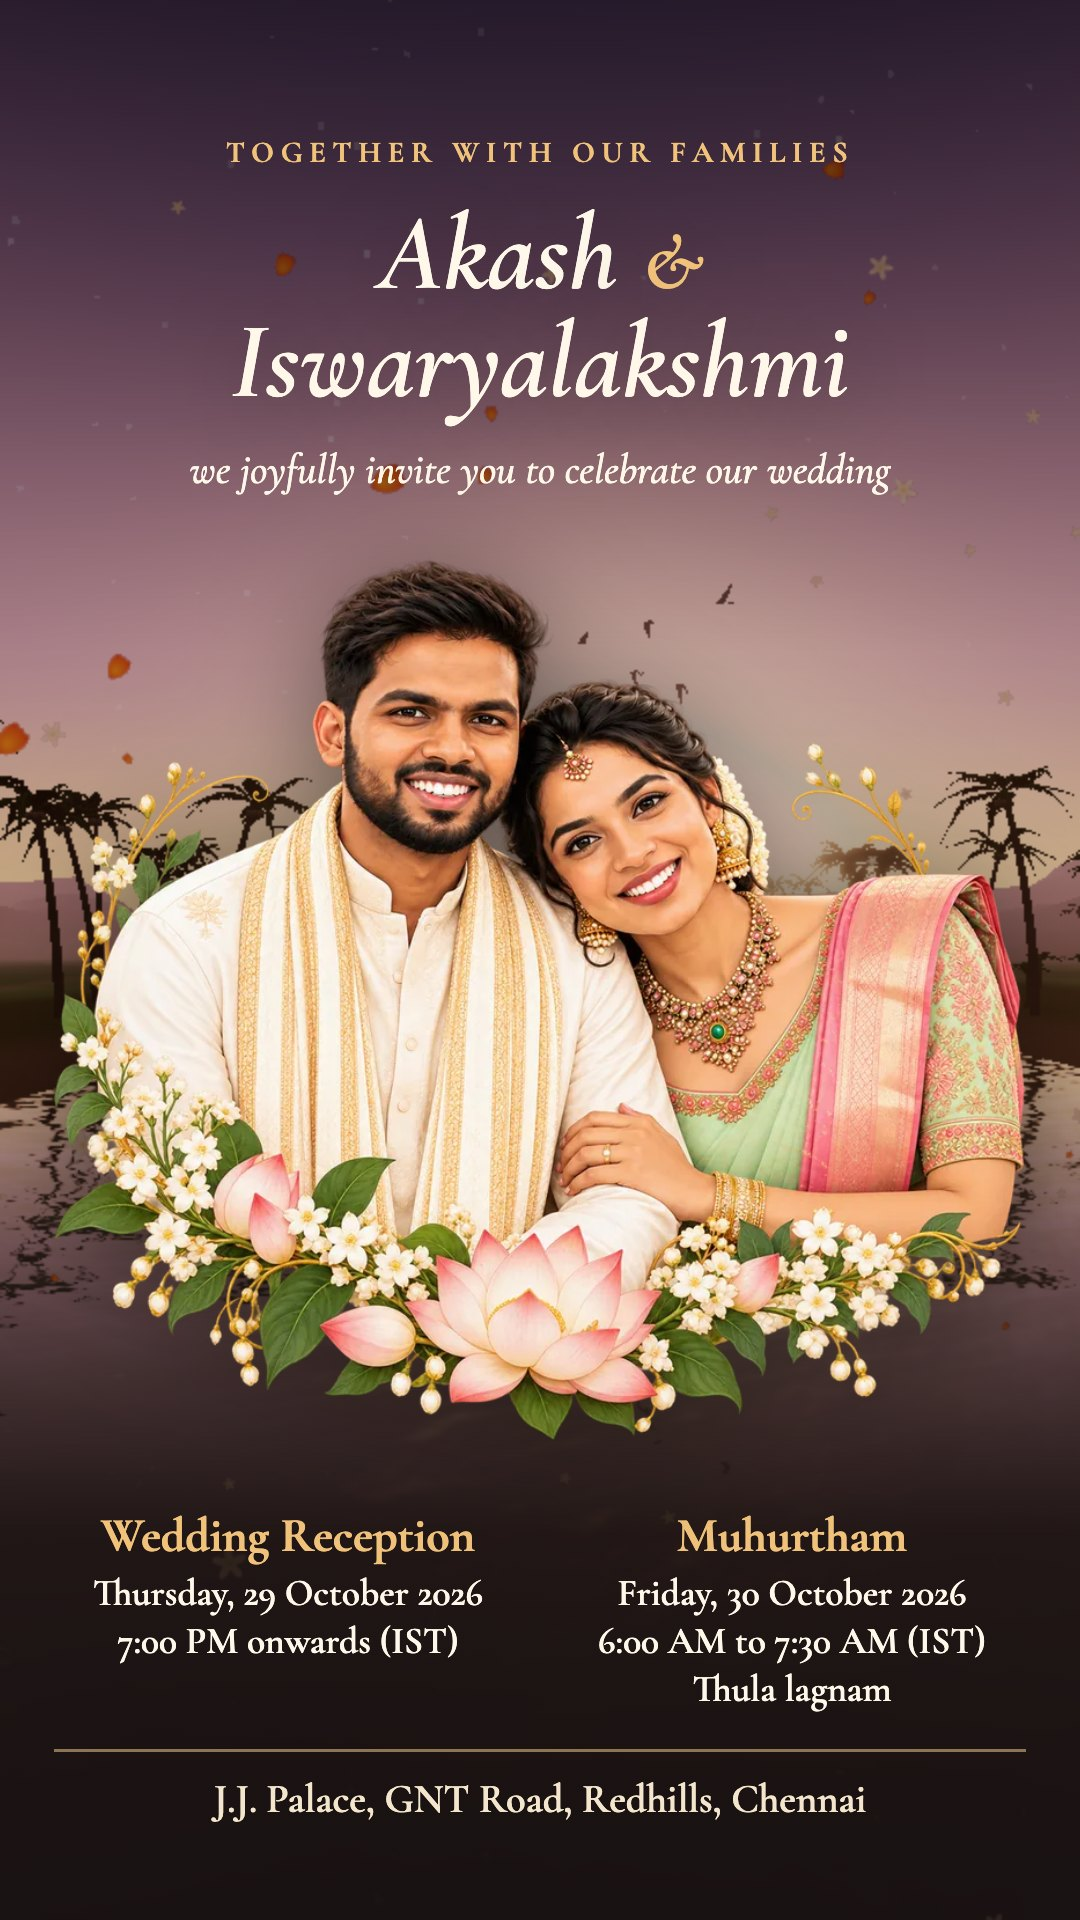
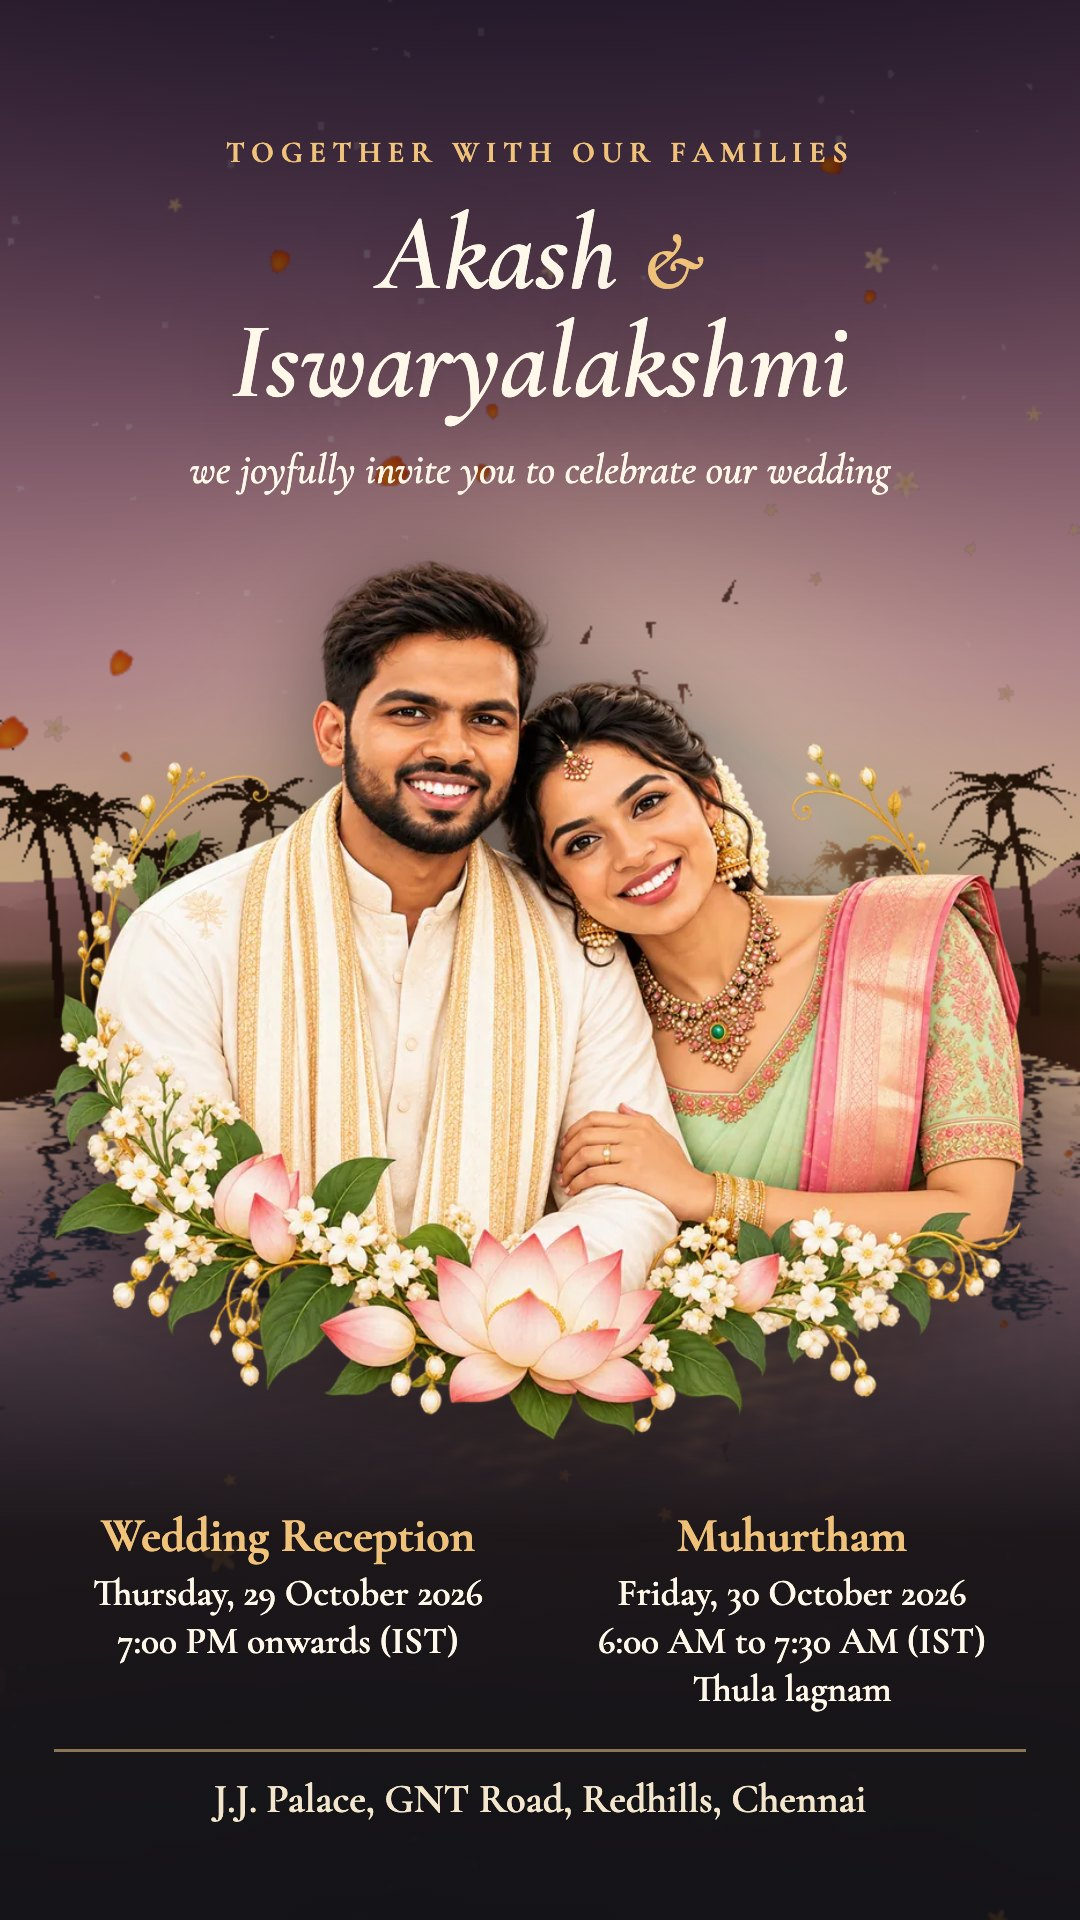
Refine reception pavilion, blue flowing river and moored boats
- Reception rotunda in ivory marble with gilded capitals, band, dome ribs
  and lantern; finer string lights and softer lamp glow
- River in natural blues with ripples flowing downstream
- Two small wooden boats rocking in the stream
- Moon, birds, safer camera path and fixed lamp flame blending
- Couple portrait on the first screen and in the story image

diff --git a/src/scene/ghat.js b/src/scene/ghat.js
@@ -45,18 +45,18 @@ const flameFragment = /* glsl */ `
     if (vKind < 0.5) {
       // Wick flame: teardrop texture, hot enough to bloom.
       vec4 t = texture2D(uFlame, vec2(uv.x, uv.y));
-      col = t.rgb * 5.0;
+      col = t.rgb * 3.2;
       a = t.a;
     } else if (vKind > 1.5) {
       // String-light bulb: a small warm-white core with a tight glow.
       float d = length(uv - 0.5) * 2.0;
-      a = exp(-d * d * 9.0);
-      col = vec3(1.0, 0.82, 0.52) * (0.8 + 3.2 * smoothstep(0.35, 0.0, d));
+      a = exp(-d * d * 10.0);
+      col = vec3(1.0, 0.86, 0.62) * (0.6 + 1.8 * smoothstep(0.35, 0.0, d));
     } else {
       // Soft halo around each lamp.
       float d = length(uv - 0.5) * 2.0;
-      a = exp(-d * d * 4.0) * 0.55;
-      col = vec3(1.0, 0.55, 0.18) * 1.6;
+      a = exp(-d * d * 6.0) * 0.3;
+      col = vec3(1.0, 0.66, 0.32) * 1.2;
     }
     // Additive blending scales colour by alpha (SRC_ALPHA, ONE).
     gl_FragColor = vec4(col, a * vAlpha);
@@ -111,14 +111,17 @@ export function createGhat({ scene, uniforms, tier }) {
   }
   group.add(new THREE.Mesh(mergeGeometries(wallGeos), stoneDark));
 
-  // Reception rotunda: a western classical pavilion in white marble. Stepped
-  // round plinth, eight fluted columns with bases and capitals, a moulded
-  // entablature ring and a shallow dome with a lantern.
+  // Reception rotunda: a western classical pavilion in ivory marble with
+  // gilded details. Stepped round plinth, eight fluted columns with gold
+  // capitals, a moulded entablature with a gold band, and a ribbed dome
+  // crowned by a gold lantern.
   const mx = -13.5;
   const colR = 3.9;
   const cols = 8;
-  const marble = new THREE.MeshLambertMaterial({ color: 0xf2ece2 });
+  const marble = new THREE.MeshLambertMaterial({ color: 0xe2d6bf });
+  const gold = new THREE.MeshPhongMaterial({ color: 0xa9803c, specular: 0xffe2a0, shininess: 70, emissive: 0x140c02 });
   const rGeos = [];
+  const gGeos = [];
   const lathe = (pts, seg = 40) => new THREE.LatheGeometry(pts.map(([r, y]) => new THREE.Vector2(r, y)), seg);
   // Plinth: three circular steps.
   rGeos.push(lathe([[0, 0], [5.4, 0], [5.4, 0.3], [4.95, 0.3], [4.95, 0.6], [4.5, 0.6], [4.5, 0.9], [0, 0.9]]));
@@ -146,20 +149,41 @@ export function createGhat({ scene, uniforms, tier }) {
     const abacus = new THREE.BoxGeometry(0.95, 0.16, 0.95);
     abacus.rotateY(-a);
     abacus.translate(cx, base + 0.32 + shaftH + 0.34, cz);
-    rGeos.push(foot, shaft, capital, abacus);
+    rGeos.push(foot, shaft);
+    gGeos.push(capital, abacus);
   }
   const top = base + 0.32 + shaftH + 0.42;
   // Entablature: architrave, frieze and a projecting cornice.
-  rGeos.push(lathe([[3.3, 0], [4.45, 0], [4.45, 0.34], [4.5, 0.4], [4.5, 0.72], [4.75, 0.82], [4.75, 1.0], [3.3, 1.0]]));
-  rGeos[rGeos.length - 1].translate(0, top, 0);
+  const entablature = lathe([[3.3, 0], [4.45, 0], [4.45, 0.34], [4.5, 0.4], [4.5, 0.72], [4.75, 0.82], [4.75, 1.0], [3.3, 1.0]]);
+  entablature.translate(0, top, 0);
+  rGeos.push(entablature);
+  // Thin gilded band between architrave and frieze.
+  const band = lathe([[4.46, 0], [4.53, 0], [4.53, 0.08], [4.46, 0.08]], 48);
+  band.translate(0, top + 0.34, 0);
+  gGeos.push(band);
   // Dome and lantern.
   const dome = new THREE.SphereGeometry(4.3, 32, 12, 0, Math.PI * 2, 0, Math.PI / 2);
   dome.scale(1, 0.62, 1);
   dome.translate(0, top + 1.0, 0);
   const lantern = lathe([[0, 0], [0.7, 0], [0.7, 0.9], [0.9, 1.0], [0.25, 1.35], [0.12, 1.9], [0, 2.0]], 16);
   lantern.translate(0, top + 1.0 + 4.3 * 0.62 - 0.1, 0);
-  rGeos.push(dome, lantern);
-  const rotunda = new THREE.Mesh(mergeGeometries(rGeos.map((g) => (g.index ? g.toNonIndexed() : g))), marble);
+  rGeos.push(dome);
+  gGeos.push(lantern);
+  // Gilded ribs running up the dome.
+  const domeBase = top + 1.0;
+  for (let i = 0; i < 12; i++) {
+    const a = (i / 12) * Math.PI * 2;
+    const pts = [];
+    for (let k = 0; k <= 10; k++) {
+      const phi = (k / 10) * (Math.PI / 2) * 0.93;
+      const r = 4.32 * Math.cos(phi);
+      pts.push(new THREE.Vector3(Math.cos(a) * r, domeBase + 4.32 * 0.62 * Math.sin(phi), Math.sin(a) * r));
+    }
+    gGeos.push(new THREE.TubeGeometry(new THREE.CatmullRomCurve3(pts), 12, 0.06, 5, false));
+  }
+  const merge = (list) => mergeGeometries(list.map((g) => (g.index ? g.toNonIndexed() : g)));
+  const rotunda = new THREE.Group();
+  rotunda.add(new THREE.Mesh(merge(rGeos), marble), new THREE.Mesh(merge(gGeos), gold));
   rotunda.position.set(mx, TOP, 0);
   group.add(rotunda);
 
@@ -169,10 +193,10 @@ export function createGhat({ scene, uniforms, tier }) {
   for (let i = 0; i < cols; i++) {
     const a0 = (i / cols) * Math.PI * 2 + Math.PI / cols;
     const a1 = ((i + 1) / cols) * Math.PI * 2 + Math.PI / cols;
-    for (let k = 1; k < 7; k++) {
-      const t = k / 7;
+    for (let k = 1; k < 9; k++) {
+      const t = k / 9;
       const a = a0 + (a1 - a0) * t;
-      bulbs.push([mx + Math.cos(a) * (colR + 0.15), swagY - 0.75 * 4 * t * (1 - t), Math.sin(a) * (colR + 0.15)]);
+      bulbs.push([mx + Math.cos(a) * (colR + 0.15), swagY - 0.55 * 4 * t * (1 - t), Math.sin(a) * (colR + 0.15)]);
     }
   }
 
@@ -226,14 +250,14 @@ export function createGhat({ scene, uniforms, tier }) {
       kind.push(0);
     }
     pos.push(x, y + 0.1, z);
-    size.push(5.5);
+    size.push(3.2);
     lampIdx.push(i);
     kind.push(1);
   });
   // Bulbs come on around the ring while the lamps are being lit.
   bulbs.forEach(([x, y, z], i) => {
     pos.push(x, y, z);
-    size.push(0.8);
+    size.push(0.32);
     lampIdx.push(1 + (i / bulbs.length) * (lampSpots.length - 2));
     kind.push(2);
   });
@@ -263,12 +287,12 @@ export function createGhat({ scene, uniforms, tier }) {
   group.add(flames);
 
   // Two warm lights carry the lamp glow onto the stone and the water.
-  const glowA = new THREE.PointLight(0xffa447, 0, 46, 1.3);
-  const glowB = new THREE.PointLight(0xffa447, 0, 46, 1.3);
+  const glowA = new THREE.PointLight(0xffc488, 0, 40, 1.5);
+  const glowB = new THREE.PointLight(0xffc488, 0, 40, 1.5);
   glowA.position.set(4, TOP + 3.5, 12);
   glowB.position.set(-5, TOP + 3.5, -10);
   // Warm light inside the rotunda from the string lights.
-  const glowC = new THREE.PointLight(0xffc27a, 0, 16, 1.2);
+  const glowC = new THREE.PointLight(0xffd6a0, 0, 14, 1.4);
   glowC.position.set(mx, TOP + 4.2, 0);
   group.add(glowA, glowB, glowC);
 
@@ -283,9 +307,9 @@ export function createGhat({ scene, uniforms, tier }) {
       const level = light.lamps * (n + 0.6);
       flameUniforms.uLevel.value = level;
       const glow = clamp(level / n, 0, 1);
-      glowA.intensity = glow * 60;
-      glowC.intensity = glow * 12;
-      glowB.intensity = glow * 45;
+      glowA.intensity = glow * 26;
+      glowC.intensity = glow * 10;
+      glowB.intensity = glow * 20;
       if (renderer) flameUniforms.uViewH.value = renderer.getDrawingBufferSize(size2).y;
     },
   };

diff --git a/src/scene/boat.js b/src/scene/boat.js
@@ -1,0 +1,125 @@
+import * as THREE from 'three';
+import { mergeGeometries } from 'three/addons/utils/BufferGeometryUtils.js';
+import { sampleCamera } from './timeline.js';
+import { riverX } from './util.js';
+
+// Small wooden country boats moored in the stream, rocking on the current.
+// The hull is lofted from U-shaped cross-sections with upswept ends; the
+// water surface hides everything below the waterline.
+
+const LENGTH = 6.2;
+
+function hullGeometry() {
+  const segL = 24;
+  const segR = 10;
+  const pos = [];
+  const col = [];
+  const idx = [];
+  const plankA = new THREE.Color('#6b4428');
+  const plankB = new THREE.Color('#57361f');
+  const rim = new THREE.Color('#8a5a33');
+  for (let i = 0; i <= segL; i++) {
+    const u = (i / segL) * 2 - 1; // -1 bow .. 1 stern
+    const taper = Math.max(0, 1 - u * u);
+    const halfW = 0.82 * Math.pow(taper, 0.55) + 0.02;
+    const depth = 0.55 * Math.pow(taper, 0.35) + 0.05;
+    const top = 0.32 + 0.42 * Math.pow(Math.abs(u), 4);
+    for (let j = 0; j <= segR; j++) {
+      const th = (j / segR) * Math.PI;
+      const x = -Math.cos(th) * halfW;
+      const y = top - Math.sin(th) * (depth + (top - 0.32));
+      pos.push(x, y, u * (LENGTH / 2));
+      // Horizontal planks, with a lighter rubbing strip along the gunwale.
+      const c = j === 0 || j === segR ? rim : Math.floor(j / 2) % 2 ? plankA : plankB;
+      col.push(c.r, c.g, c.b);
+    }
+  }
+  for (let i = 0; i < segL; i++) {
+    for (let j = 0; j < segR; j++) {
+      const a = i * (segR + 1) + j;
+      const b = a + segR + 1;
+      idx.push(a, b, a + 1, b, b + 1, a + 1);
+    }
+  }
+  const g = new THREE.BufferGeometry();
+  g.setAttribute('position', new THREE.Float32BufferAttribute(pos, 3));
+  g.setAttribute('color', new THREE.Float32BufferAttribute(col, 3));
+  g.setIndex(idx);
+  g.computeVertexNormals();
+  return g;
+}
+
+function paint(geo, hex) {
+  const c = new THREE.Color(hex);
+  const n = geo.attributes.position.count;
+  const col = new Float32Array(n * 3);
+  for (let i = 0; i < n; i++) col.set([c.r, c.g, c.b], i * 3);
+  geo.setAttribute('color', new THREE.BufferAttribute(col, 3));
+  const g = geo.index ? geo.toNonIndexed() : geo;
+  g.deleteAttribute('uv');
+  return g;
+}
+
+export function createBoat({ scene }) {
+  const parts = [hullGeometry().toNonIndexed()];
+  // Two thwarts (seats) across the hull.
+  for (const z of [-1.1, 0.9]) {
+    const seat = new THREE.BoxGeometry(1.5, 0.07, 0.34);
+    seat.translate(0, 0.2, z);
+    parts.push(paint(seat, '#7a5232'));
+  }
+  // An oar resting across the boat.
+  const oar = new THREE.CylinderGeometry(0.035, 0.035, 3.4, 6);
+  oar.rotateZ(Math.PI / 2);
+  oar.rotateY(0.35);
+  oar.translate(0.1, 0.36, 0.2);
+  const blade = new THREE.BoxGeometry(0.5, 0.03, 0.2);
+  blade.rotateY(0.35);
+  blade.translate(1.7, 0.36, -0.42);
+  parts.push(paint(oar, '#8a6a44'), paint(blade, '#8a6a44'));
+  // A folded mat and a small brass pot for a touch of life.
+  const mat = new THREE.BoxGeometry(0.9, 0.08, 0.6);
+  mat.translate(0, 0.05, -2.0);
+  const pot = new THREE.SphereGeometry(0.16, 10, 8);
+  pot.translate(0.25, 0.12, 1.9);
+  parts.push(paint(mat, '#b0463a'), paint(pot, '#c09040'));
+  for (const p of parts) if (p.attributes.uv) p.deleteAttribute('uv');
+
+  const geometry = mergeGeometries(parts);
+  const material = new THREE.MeshLambertMaterial({ vertexColors: true, side: THREE.DoubleSide });
+
+  // Moored boats placed in the line of sight of two chapters: one off to the
+  // right in the golden-hour view, one on the sunrise glitter path at dawn.
+  // `distance` is metres downstream of the chapter's camera; `offset` is
+  // metres from the river's centre line, so the boat always sits on water.
+  const SPOTS = [
+    { chapter: 0, distance: 50, offset: 6, turn: 0.5 },
+    { chapter: 2, distance: 70, offset: -13, turn: -0.6 },
+  ];
+  const boats = SPOTS.map(({ chapter, distance, offset, turn }, i) => {
+    const z0 = sampleCamera(chapter).pos.z - distance;
+    const spot = new THREE.Vector3(riverX(z0) + offset, 0, z0);
+    const heading = Math.atan((riverX(spot.z + 1) - riverX(spot.z - 1)) / 2) + turn;
+    const boat = new THREE.Mesh(geometry, material);
+    boat.scale.setScalar(1.25);
+    const holder = new THREE.Group();
+    holder.position.set(spot.x, 0, spot.z);
+    holder.rotation.y = heading;
+    holder.add(boat);
+    scene.add(holder);
+    return { boat, holder, heading, phase: i * 2.1 };
+  });
+
+  return {
+    update({ time }) {
+      for (const b of boats) {
+        const t = time + b.phase;
+        // Gentle bob, roll and pitch; a slow swing on the mooring.
+        b.boat.position.y = -0.18 + Math.sin(t * 1.1) * 0.05;
+        b.boat.rotation.z = Math.sin(t * 0.9 + 1.2) * 0.035;
+        b.boat.rotation.x = Math.sin(t * 0.7) * 0.02;
+        b.holder.rotation.y = b.heading + Math.sin(t * 0.15) * 0.12;
+      }
+    },
+  };
+}

diff --git a/src/scene/timeline.js b/src/scene/timeline.js
@@ -44,28 +44,28 @@ const TIMES = [
     sun: c('#ffc88a'), sunAz: -0.42, sunEl: 0.075, sunI: 2.6, disc: 12, glow: 0.8,
     hemiSky: c('#ffd9b0'), hemiGround: c('#4a3a2a'), hemiI: 1.1,
     fog: c('#e8b48c'), fogD: 0.0011, exposure: 0.6,
-    deep: c('#3a4a3c'), bank: c('#231a12'), lamps: 0, stars: 0, glitter: 1, moon: 0,
+    deep: c('#2c5870'), bank: c('#231a12'), lamps: 0, stars: 0, glitter: 1, moon: 0,
   },
   {
     top: c('#0d1330'), mid: c('#4d3263'), horizon: c('#d8745c'),
     sun: c('#ff7040'), sunAz: -0.5, sunEl: -0.05, sunI: 0.12, disc: 0, glow: 0.9,
     hemiSky: c('#6a64a4'), hemiGround: c('#2a1e2a'), hemiI: 0.75,
     fog: c('#4a3558'), fogD: 0.0014, exposure: 1.0,
-    deep: c('#16242c'), bank: c('#07060a'), lamps: 1, stars: 0.8, glitter: 0, moon: 1,
+    deep: c('#0f2640'), bank: c('#07060a'), lamps: 1, stars: 0.8, glitter: 0, moon: 1,
   },
   {
     top: c('#25346c'), mid: c('#c08aa4'), horizon: c('#ffbf82'),
     sun: c('#ffb070'), sunAz: dawnAz + 0.032, sunEl: 0.088, sunI: 1.5, disc: 14, glow: 1.5,
     hemiSky: c('#b8a0c0'), hemiGround: c('#2a2030'), hemiI: 0.85,
     fog: c('#c89090'), fogD: 0.0012, exposure: 0.68,
-    deep: c('#34464a'), bank: c('#140f18'), lamps: 0.5, stars: 0.15, glitter: 1, moon: 0,
+    deep: c('#2d5a78'), bank: c('#140f18'), lamps: 0.5, stars: 0.15, glitter: 1, moon: 0,
   },
   {
     top: c('#5f93c8'), mid: c('#e9dcc4'), horizon: c('#fff0d8'),
     sun: c('#fff0d4'), sunAz: dawnAz + 0.1, sunEl: 0.3, sunI: 2.7, disc: 6, glow: 0.5,
     hemiSky: c('#dfe8f0'), hemiGround: c('#4a4a38'), hemiI: 1.25,
     fog: c('#d9dcd8'), fogD: 0.0009, exposure: 0.62,
-    deep: c('#3d5a52'), bank: c('#1c2416'), lamps: 0, stars: 0, glitter: 0.8, moon: 0,
+    deep: c('#2a7096'), bank: c('#1c2416'), lamps: 0, stars: 0, glitter: 0.8, moon: 0,
   },
 ];
 

diff --git a/src/scene/water.js b/src/scene/water.js
@@ -59,9 +59,11 @@ const fragmentShader = /* glsl */ `
     vec3 v = toCam / dist;
 
     vec2 p = vWorld.xz;
-    vec3 n1 = texture2D(uNormal, p * 0.045 + vec2(0.004, -0.018) * uTime).rgb * 2.0 - 1.0;
-    vec3 n2 = texture2D(uNormal, p * 0.11 + vec2(-0.012, -0.03) * uTime).rgb * 2.0 - 1.0;
-    vec3 n3 = texture2D(uNormal, p * 0.31 + vec2(0.02, -0.05) * uTime).rgb * 2.0 - 1.0;
+    // The river flows downstream (-Z) at about 1 m/s. Ripples are stretched
+    // along the current so the surface reads as a moving stream.
+    vec3 n1 = texture2D(uNormal, p * vec2(0.05, 0.03) + vec2(0.003, 0.032) * uTime).rgb * 2.0 - 1.0;
+    vec3 n2 = texture2D(uNormal, p * vec2(0.12, 0.07) + vec2(-0.006, 0.075) * uTime).rgb * 2.0 - 1.0;
+    vec3 n3 = texture2D(uNormal, p * 0.31 + vec2(0.01, 0.3) * uTime).rgb * 2.0 - 1.0;
     float near = 1.0 - smoothstep(10.0, 90.0, dist);
     vec2 slope = n1.xy * 0.45 + n2.xy * 0.4 + n3.xy * 0.35 * near;
     // Calm the ripples with distance so the far river turns to a mirror.
@@ -86,8 +88,9 @@ const fragmentShader = /* glsl */ `
     }
 
     // Water body: the river's own green-brown tint, lit a little by the sky.
-    vec3 body = uDeep * (0.75 + 0.25 * n.y) + uHorizon * 0.06;
-    vec3 col = mix(body, refl, clamp(fres * 1.1 + 0.28, 0.0, 1.0));
+    // Water body: clear river blue, a touch lighter where ripples face the sky.
+    vec3 body = uDeep * (0.8 + 0.35 * n.y) + uTop * 0.05;
+    vec3 col = mix(body, refl, clamp(fres * 1.1 + 0.2, 0.0, 1.0));
 
     vec3 sd = normalize(uSunDir);
     float s = max(dot(r, sd), 0.0);

diff --git a/src/scene/boot.js b/src/scene/boot.js
@@ -1,4 +1,5 @@
 import { createBirds } from './birds.js';
+import { createBoat } from './boat.js';
 import { createFlora } from './flora.js';
 import { createGhat } from './ghat.js';
 import { createGopuram } from './gopuram.js';
@@ -33,7 +34,7 @@ const TIERS = {
 };
 
 export async function bootWorld({ container, tier, reducedMotion, capture = false }) {
-  const config = { ...TIERS[tier], capture, layers: [createFlora, createGopuram, createGhat, createPetals, createBirds] };
+  const config = { ...TIERS[tier], capture, layers: [createFlora, createGopuram, createGhat, createPetals, createBirds, createBoat] };
   if (reducedMotion) config.petals = 0;
   config.reducedMotion = reducedMotion;
   return createWorld({ container, tier: config, reducedMotion });
